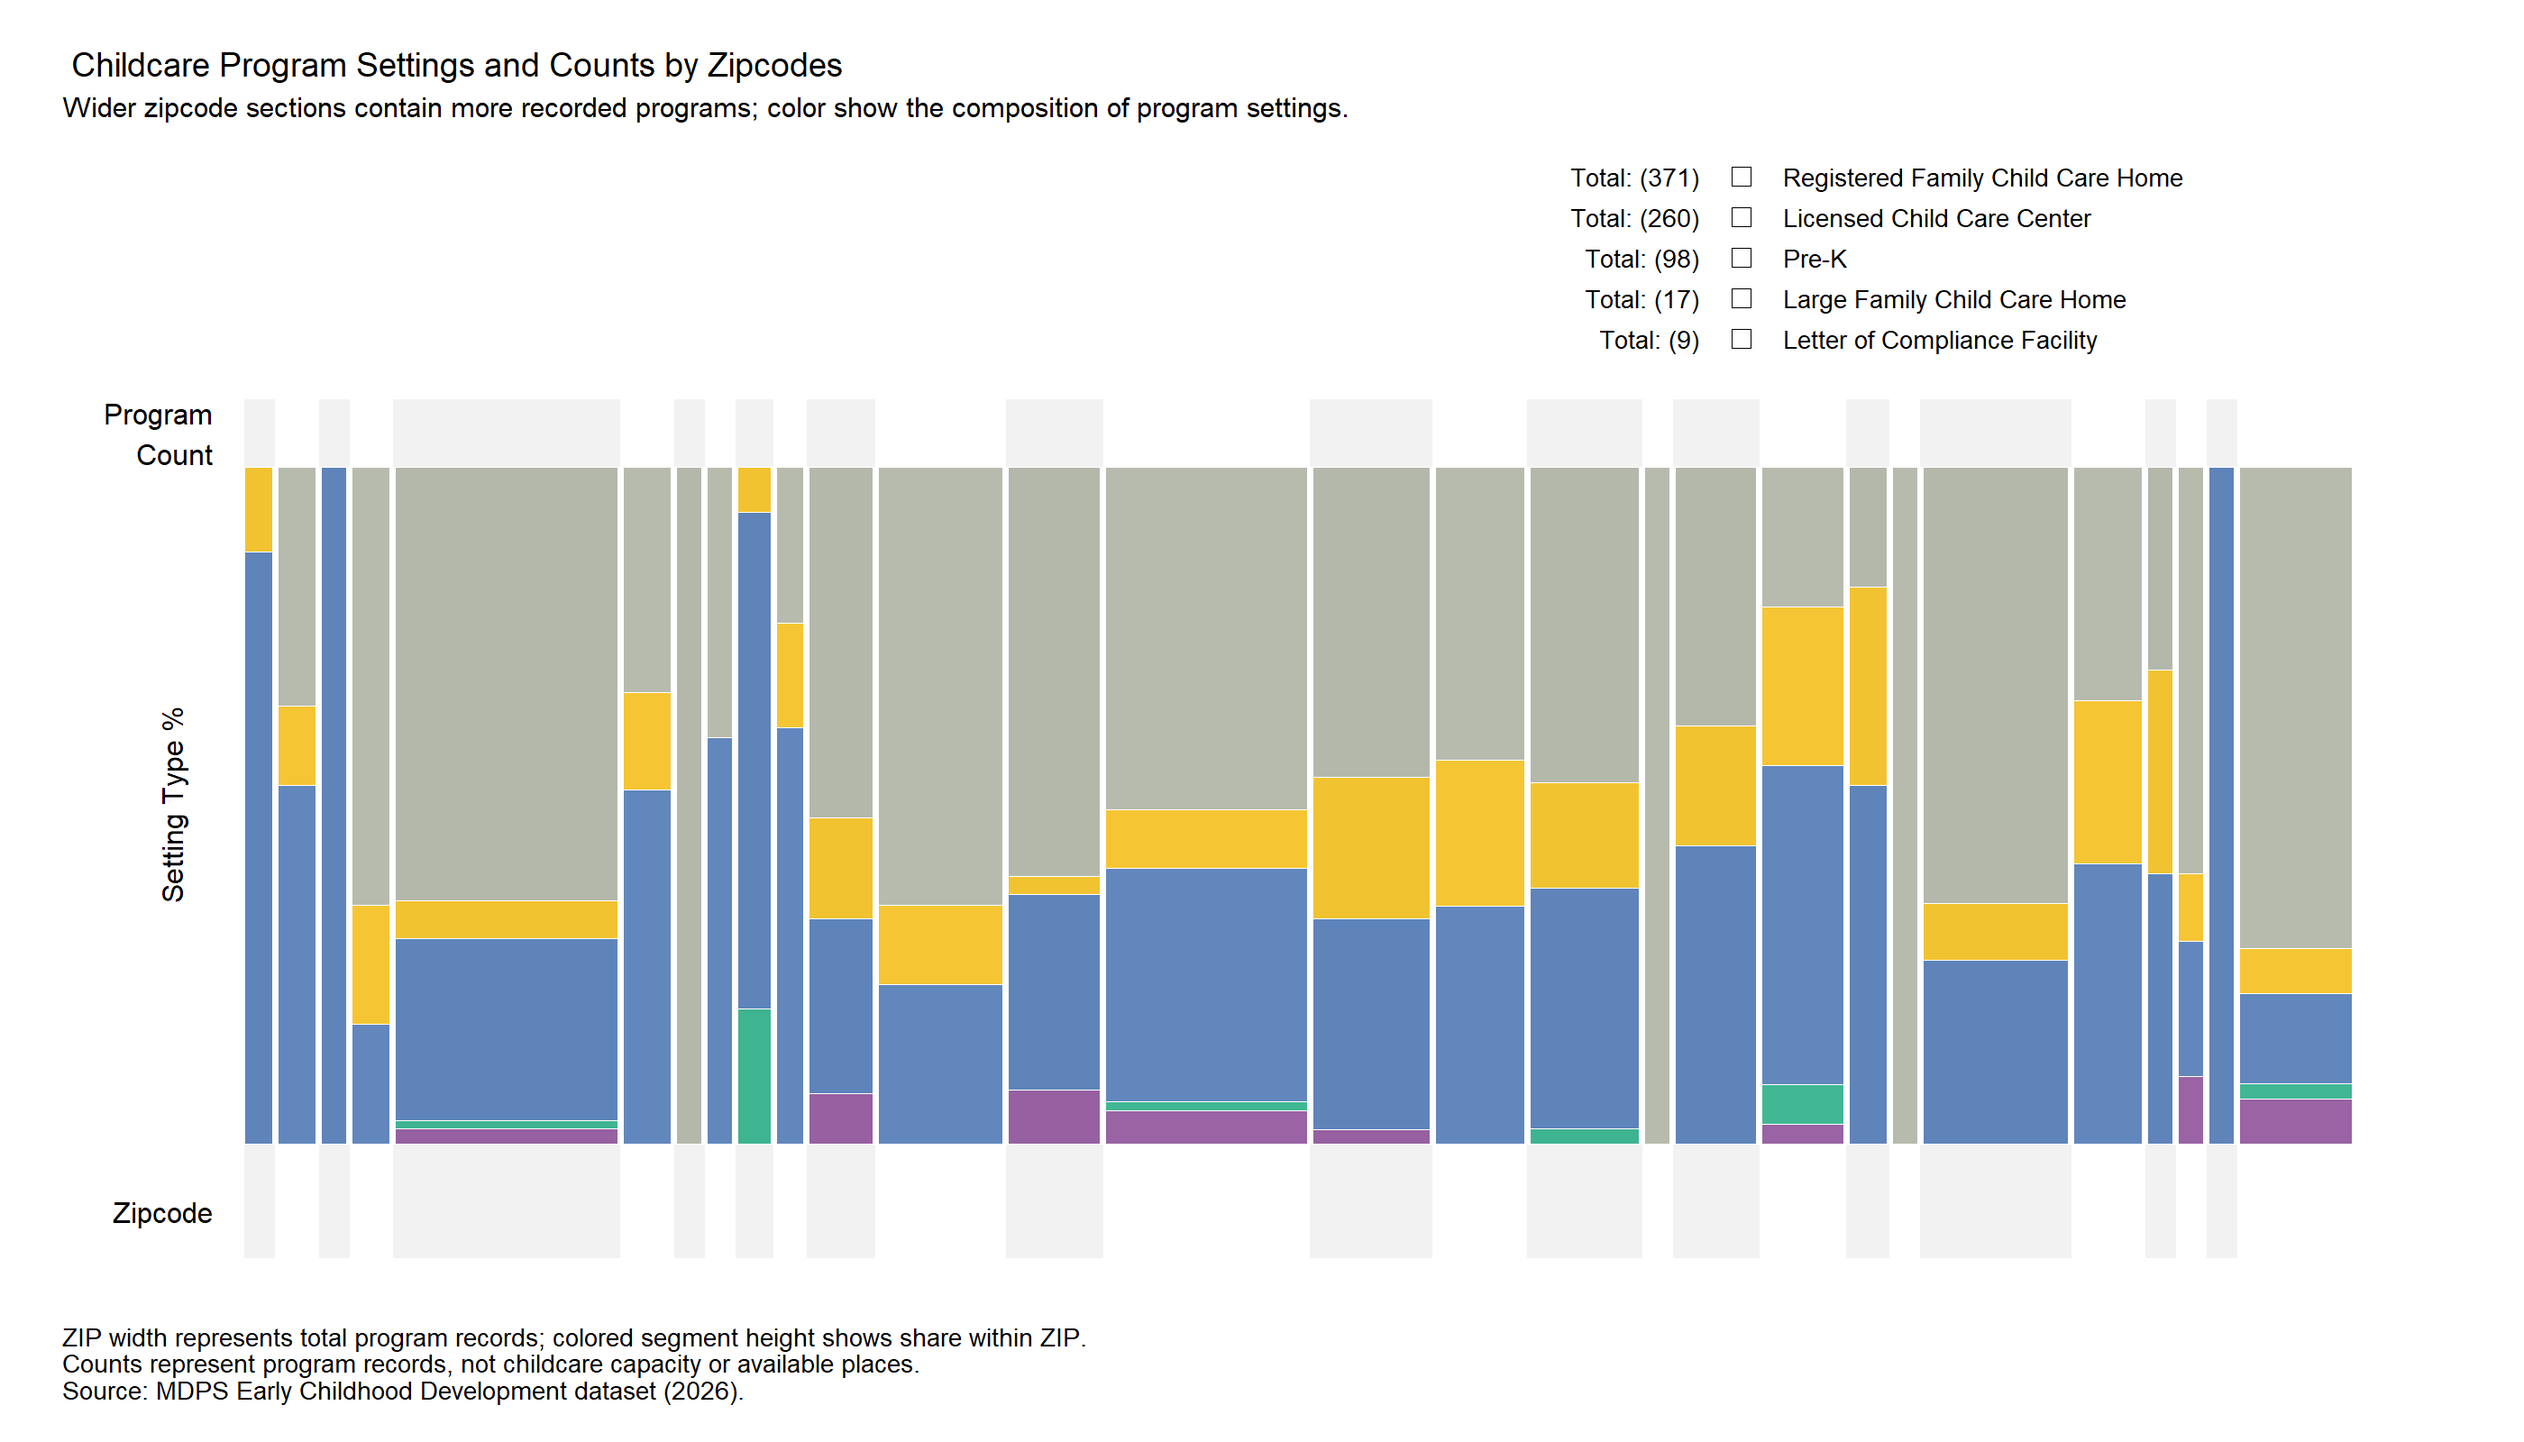
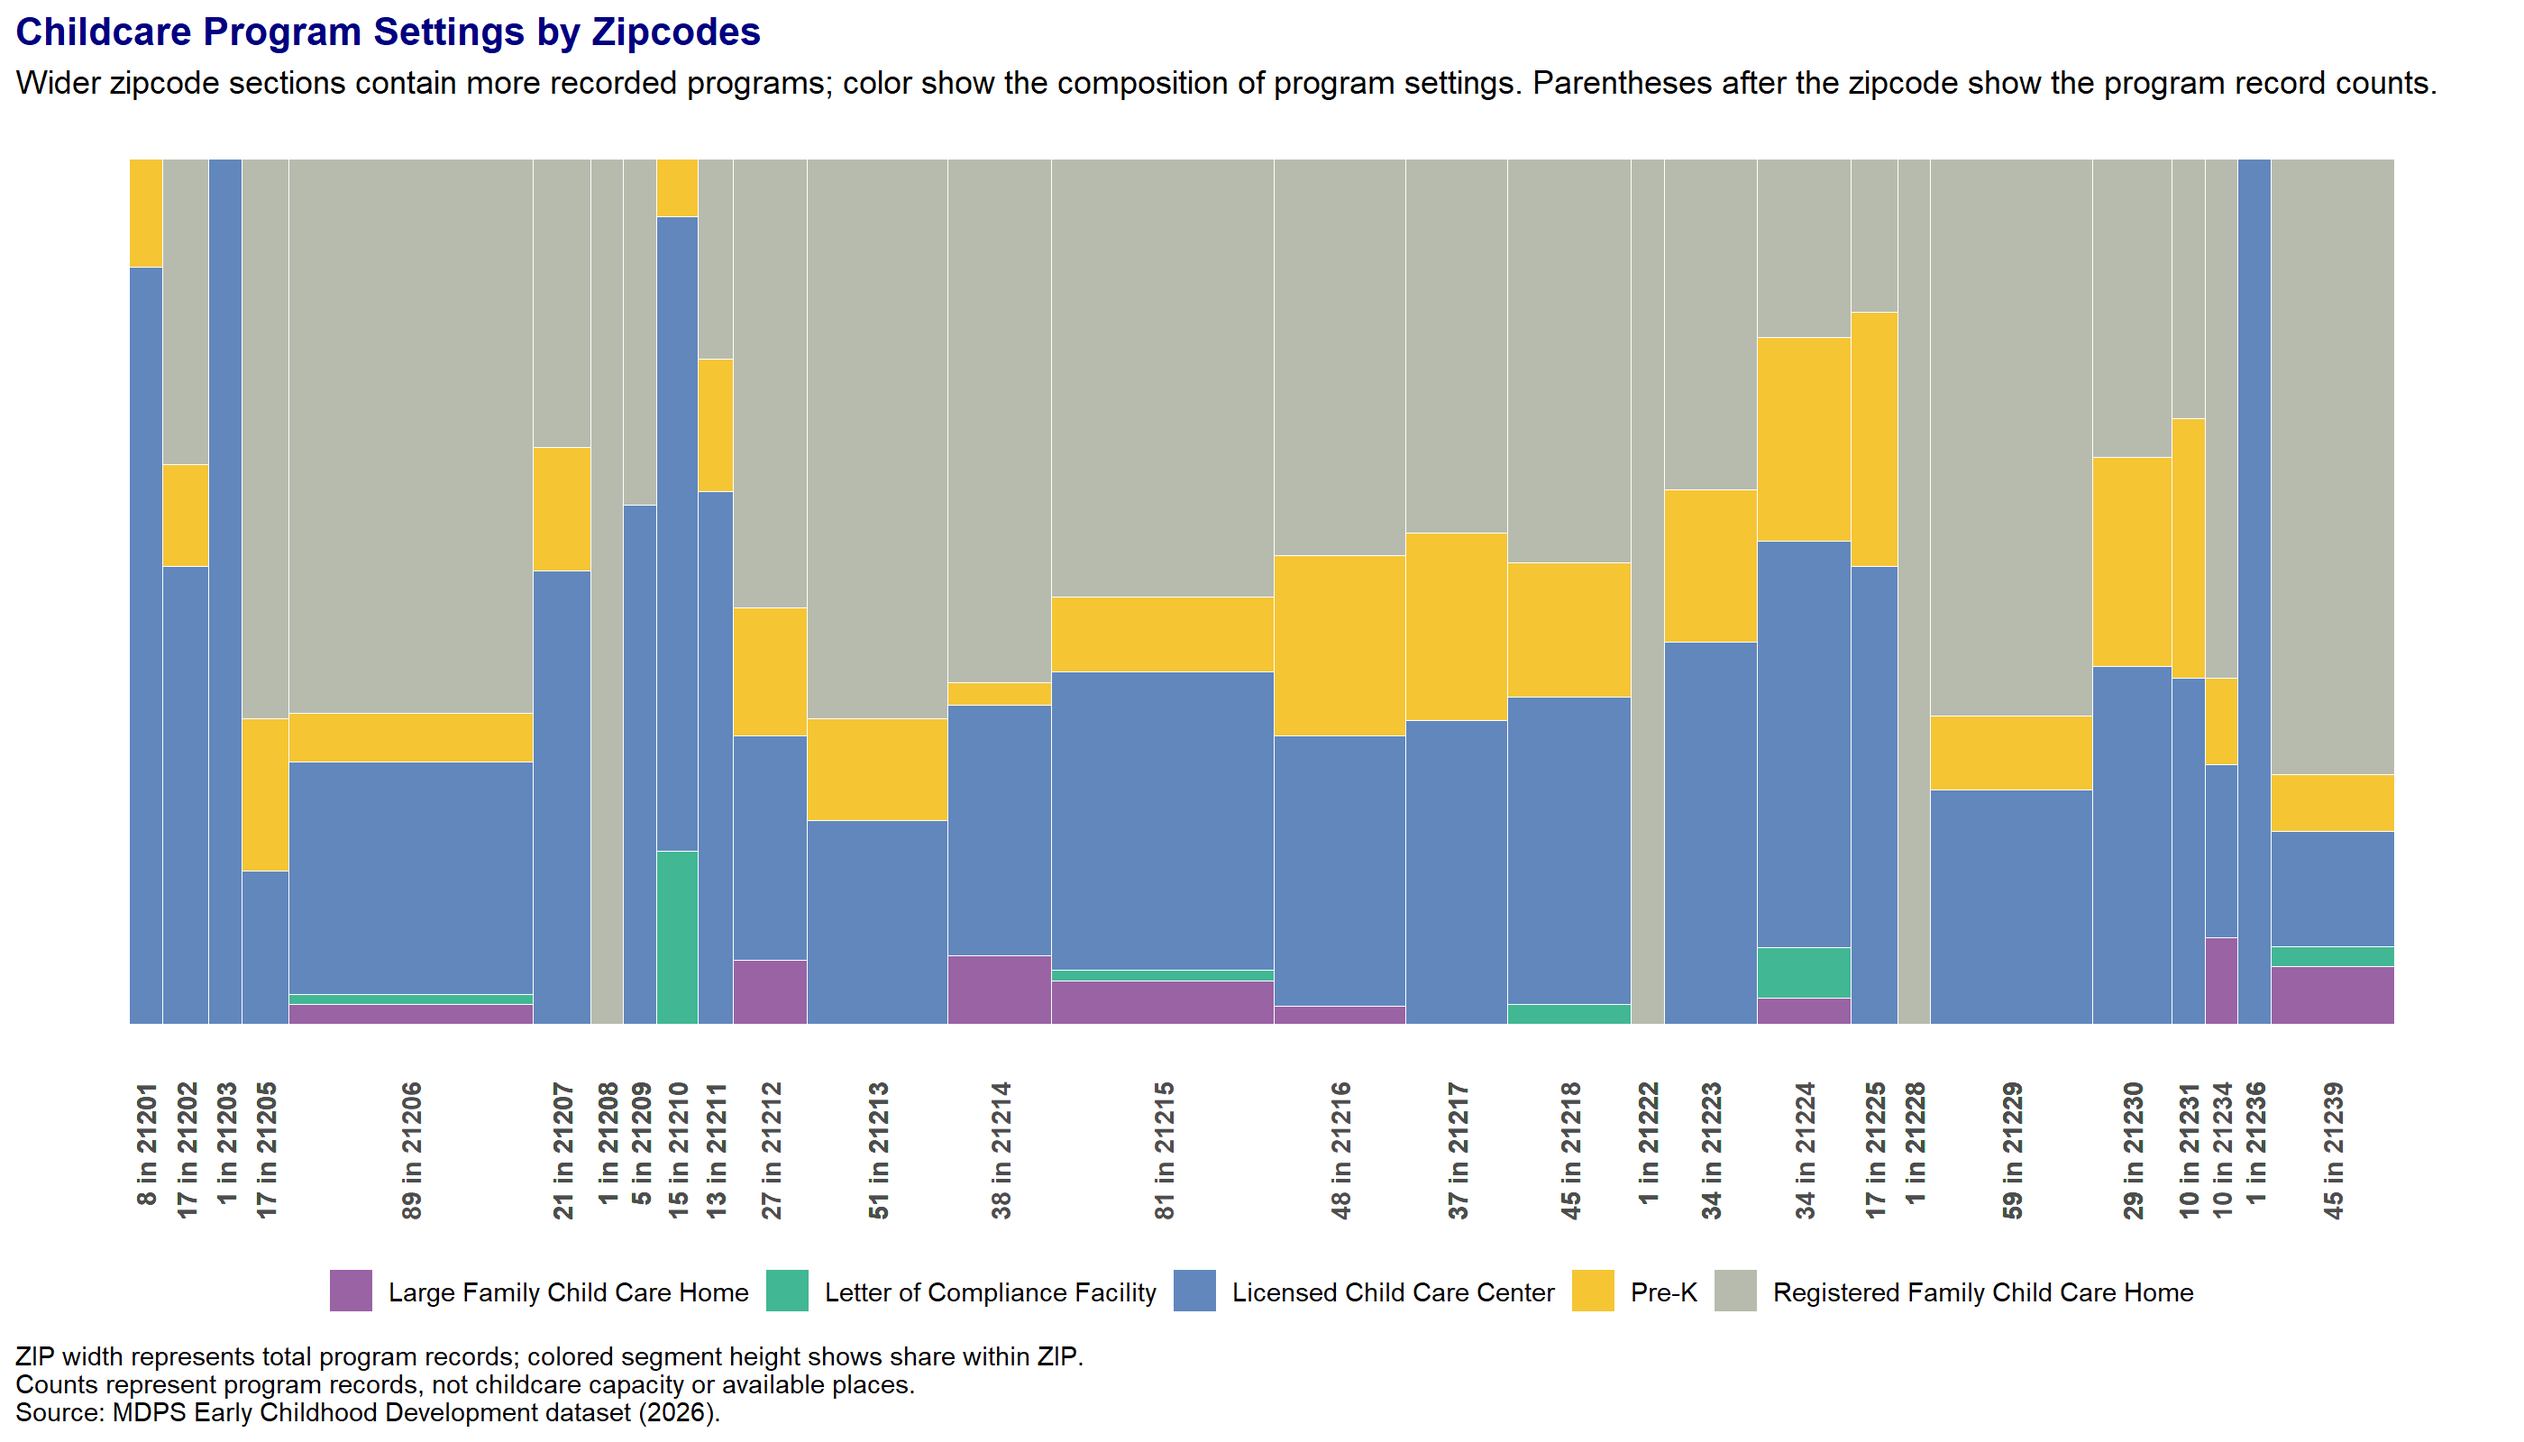
Added my heatmap form sketchs need little changes.

diff --git a/code/03_final_draft.md b/code/03_final_draft.md
@@ -182,90 +182,28 @@ program_setting_counts <- childcare_eda |>
 ```
 
 ``` r
-mosaic_legend <-function(data) {list(
-  geom_text(data = data,
-            aes(x = .69, y = y, label = label),
-            hjust = 1, size = 3.5),
-  geom_point(data = data, aes(x = .71, y = y, fil = gen_program_setting_detail),
-             shape = 22, size = 4, stroke = 0),
-  geom_text(data = data, aes(x = .73, y = y, label = gen_program_setting_detail),
-            hjust = 0, size = 3.5)
-)}
-```
-
-``` r
 mosaic_data <- program_setting_counts |> 
   dplyr::group_by(zipcode) |>
   dplyr::mutate(total = sum(program_records),
-                display_total = pmax(total, 12),
-                weight = program_records / total * display_total) |> 
-  dplyr::ungroup()
-
-zip_totals <- mosaic_data |> 
-  dplyr::distinct(zipcode, total, display_total) |>
+                weight = program_records / total * pmax(total, 12),
+                zip_label = paste0(total, " in ", zipcode)
+  ) |>
+  dplyr::ungroup() |>
   dplyr::arrange(zipcode) |>
-  dplyr::mutate(width = display_total / sum(display_total),
-                right = cumsum(width),
-                left = right - width,
-                center = (left + right) / 2,
-                alternate = dplyr::row_number() %% 2)
-
-setting_totals <- program_setting_counts |> 
-  dplyr::group_by(gen_program_setting_detail) |>
-  dplyr::summarise(total = sum(program_records), .group = "drop") |> 
-  dplyr::arrange(dplyr::desc(total)) |>
-  dplyr::mutate(y = 1.43 - (dplyr::row_number()- 1)* .06,
-                label = paste0("Total: (", total, ")")
+  dplyr::mutate(zip_label = factor(zip_label, levels = unique(zip_label))
                 )
-
-setting_names <- sort(unique(as.character(program_setting_counts$gen_program_setting_detail)
-                             ))
-
-setting_colors <- setNames(rcartocolor::carto_pal(n = length(setting_names), name = "Bold"),setting_names)
-
-program_setting_chart <- ggplot() +
-  geom_rect(data = zip_totals |> 
-              dplyr::filter(alternate == 1),
-            aes(xmin = left, xmax = right, ymin = -.17, ymax = 1.1),
-            fill = "gray95") +
-  geom_mosaic(data = mosaic_data, aes(x = product(zipcode),
+program_setting_chart <- ggplot(data = mosaic_data) +
+  geom_mosaic(aes(x = product(zip_label),
                   fill = gen_program_setting_detail,
-                  weight = weight
-              ),
- offset = 0,
- color = "white",
- show.legend = FALSE
-  ) + 
-  geom_rect(data = zip_totals|> dplyr::filter(right < .999),
-            aes(xmin = right - .0015,
-                xmax = right + .0015,
-                ymin = 0,
-                ymax = 1),
-            fill = "white")+
-  
-  annotate("text",
-           x = c (-.015, -.035, -.015),
-           y = c(1.05, .5, -.10),
-           label = c("Program\nCount", "Setting Type %", "Zipcode"),
-           angle = c(0, 90, 0),
-           hjust = c(1, .5, 1), 
-           size = 4) +
-  mosaic_legend(setting_totals) + 
-  scale_fill_manual(values = setting_colors, guide = "none") +
-  
-  
-  
-  scale_fill_manual(values = rcartocolor::carto_pal(
-    n = dplyr::n_distinct(program_setting_counts$gen_program_setting_detail),
-    name = "Bold"
-  )
-  )+
-  
+                  weight = weight),
+              color = "white",
+              offset = 0) +
+  rcartocolor::scale_fill_carto_d(palette = "Bold") +
   labs(
-    title = " Childcare Program Settings and Counts by Zipcodes",
-    subtitle = "Wider zipcode sections contain more recorded programs; color show the composition of program settings.",
+    title = "Childcare Program Settings by Zipcodes",
+    subtitle = "Wider zipcode sections contain more recorded programs; color show the composition of program settings. Parentheses after the zipcode show the program record counts.",
     x = "Zipcodes",
-    y = "Share of Program Records within zipcodes)",
+    y = NULL,
     fill = NULL,
     caption = paste0(
       "ZIP width represents total program records; colored segment height shows share within ZIP.\n",
@@ -274,21 +212,25 @@ program_setting_chart <- ggplot() +
     )
   ) +
   
-  theme_void() +
+  theme_minimal(base_size = 13) +
   theme(
-    legend.position = "none",
-    plot.caption = element_text(hjust = 0, size = 10),
-    plot.margin = margin(15, 25, 15, 25)
-  )
-```
+    panel.grid = element_blank(),
+    axis.title.y = element_blank(),
+    axis.title.x = element_blank(),
+    axis.text.y = element_blank(),
+    axis.ticks.y = element_blank(),
+    axis.text.x = element_text(
+      angle = 90,
+      hjust = 1,
+      vjust = 0.5,
+      face = "bold"
+    ),
+    plot.title = element_text(face = "bold", color = "navy"),
+    legend.position = "bottom",
+    plot.caption = element_text(hjust = 0)
+  ) +
+  guides(fill = guide_legend(nrow = 1))
 
-    Warning in geom_point(data = data, aes(x = 0.71, y = y, fil =
-    gen_program_setting_detail), : Ignoring unknown aesthetics: fil
-
-    Scale for fill is already present.
-    Adding another scale for fill, which will replace the existing scale.
-
-``` r
 program_setting_chart
 ```
 
@@ -306,5 +248,9 @@ ggsave(
   bg = "white"
 )
 ```
+
+<img
+src="03_final_draft_files/figure-commonmark/heatmap_program-avaibility-1.png"
+data-fig-alt="The Heatmaps here show the reported childcare opertaing schedules by program setting across Baltimore area zip codes. Each panel shows Monday-Sunday and hours from 0-23. Darker blues indicate a higher precentage of programs with useable schedules open at the start of the hour. Lighter grey represents zero precent open." />
 
   
